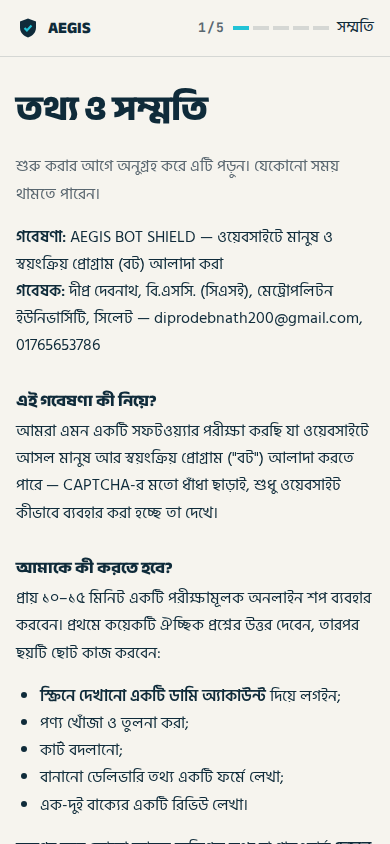
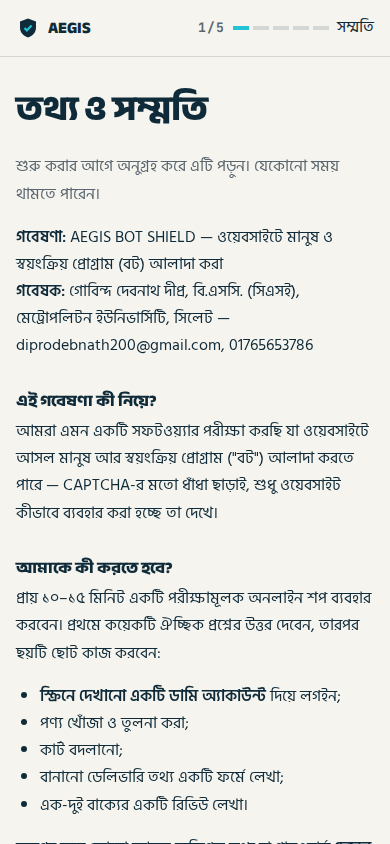
Consent sheets and protocol: researcher name Gobindo Debnath Dipro
- consent_en.md, consent_bn.md: researcher shown as Gobindo Debnath Dipro
  (গোবিন্দ দেবনাথ দীপ্র); CONSENT_VERSION 2026-10-25.2
- protocol.md: principal investigator with student ID 231-115-118
- Screenshots regenerated

Changed region(s): [[0.0308, 0.3389, 0.9231, 0.4313]]

diff --git a/study/aegis_study/config.py b/study/aegis_study/config.py
@@ -4,7 +4,7 @@ from dataclasses import dataclass, field
 from typing import Optional
 
 #: Bump when the information sheet or consent text changes; stored with every session.
-CONSENT_VERSION = "2026-10-25"
+CONSENT_VERSION = "2026-10-25.2"
 
 
 @dataclass

diff --git a/docs/thesis/irb/consent_bn.md b/docs/thesis/irb/consent_bn.md
@@ -3,7 +3,7 @@
 > অনুবাদ — ব্যবহারের আগে একজন বাংলাভাষী দিয়ে ইংরেজি সংস্করণের সাথে মিলিয়ে নিন।
 
 **গবেষণা:** AEGIS BOT SHIELD — ওয়েবসাইটে মানুষ ও স্বয়ংক্রিয় প্রোগ্রাম (বট) আলাদা করা
-**গবেষক:** দীপ্র দেবনাথ, বি.এসসি. (সিএসই), মেট্রোপলিটন ইউনিভার্সিটি, সিলেট — diprodebnath200@gmail.com, 01765653786
+**গবেষক:** গোবিন্দ দেবনাথ দীপ্র, বি.এসসি. (সিএসই), মেট্রোপলিটন ইউনিভার্সিটি, সিলেট — diprodebnath200@gmail.com, 01765653786
 
 ## এই গবেষণা কী নিয়ে?
 আমরা এমন একটি সফটওয়্যার পরীক্ষা করছি যা ওয়েবসাইটে আসল মানুষ আর স্বয়ংক্রিয় প্রোগ্রাম ("বট") আলাদা করতে পারে — CAPTCHA-র মতো ধাঁধা ছাড়াই, শুধু ওয়েবসাইট কীভাবে ব্যবহার করা হচ্ছে তা দেখে।
@@ -41,7 +41,7 @@
 অংশগ্রহণ সম্পূর্ণ স্বেচ্ছামূলক এবং এর কোনো প্রভাব আপনার গ্রেড বা বিশ্ববিদ্যালয়ের সাথে সম্পর্কে পড়বে না। ওয়েবসাইট বন্ধ করে আপনি যেকোনো সময় থামতে পারেন, এবং **যেকোনো সময়** আপনার স্টাডি কোড জানিয়ে আপনার ডেটা মুছে ফেলতে বলতে পারেন (সামষ্টিক পরিসংখ্যান হিসেবে আগেই প্রকাশিত ফলাফল বদলানো যাবে না)।
 
 ## প্রশ্ন বা উদ্বেগ
-গবেষক: দীপ্র দেবনাথ — diprodebnath200@gmail.com, ফোন 01765653786
+গবেষক: গোবিন্দ দেবনাথ দীপ্র — diprodebnath200@gmail.com, ফোন 01765653786
 
 ---
 

diff --git a/docs/thesis/irb/consent_en.md b/docs/thesis/irb/consent_en.md
@@ -1,7 +1,7 @@
 # Participant Information Sheet and Consent Form
 
 **Study:** AEGIS BOT SHIELD — Distinguishing Human and Automated Web Traffic
-**Researcher:** Dipro Debnath, B.Sc. CSE, Metropolitan University, Sylhet — diprodebnath200@gmail.com, 01765653786
+**Researcher:** Gobindo Debnath Dipro, B.Sc. CSE, Metropolitan University, Sylhet — diprodebnath200@gmail.com, 01765653786
 
 ## What is this study about?
 We are testing software that tells real people apart from automated programs
@@ -56,7 +56,7 @@ may ask **at any time** to have your data deleted by quoting your study code
 (results already published as group statistics cannot be changed).
 
 ## Questions or concerns
-Researcher: Dipro Debnath — diprodebnath200@gmail.com, phone 01765653786
+Researcher: Gobindo Debnath Dipro — diprodebnath200@gmail.com, phone 01765653786
 
 ---
 

diff --git a/docs/thesis/irb/protocol.md b/docs/thesis/irb/protocol.md
@@ -10,7 +10,7 @@
 | Item | Value |
 |------|-------|
 | Title | AEGIS BOT SHIELD: Distinguishing Human and Automated Web Traffic with Behavioural and Network Signals |
-| Principal investigator | Dipro Debnath, B.Sc. CSE student, Metropolitan University, Sylhet |
+| Principal investigator | Gobindo Debnath Dipro (ID 231-115-118), B.Sc. CSE student, Metropolitan University, Sylhet |
 | Contact | diprodebnath200@gmail.com, 01765653786 |
 | Planned period | Data collection for about two weeks, starting when the website is deployed |
 | Funding | None |
